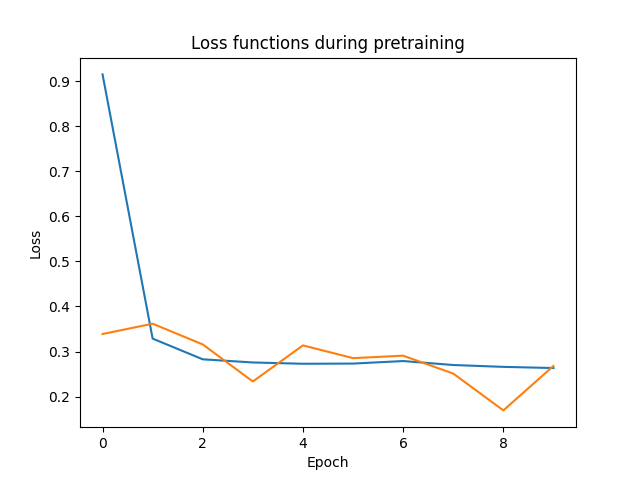
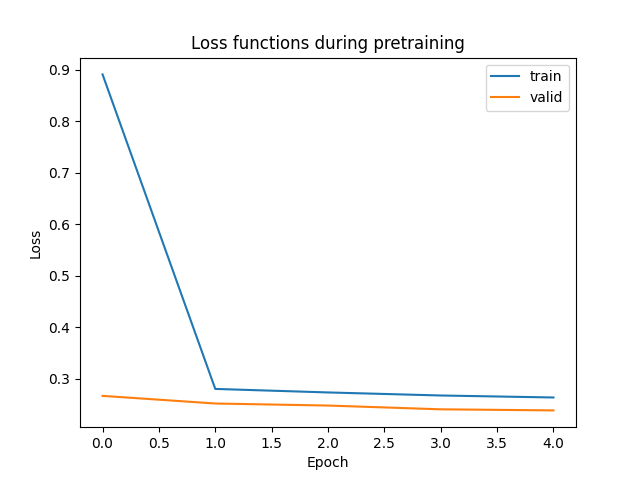
pretrain script working in parallel using torchrun

diff --git a/pretrain.py b/pretrain.py
@@ -1,0 +1,217 @@
+import json
+import tempfile
+import numpy as np
+import matplotlib.pyplot as plt
+import torch
+import time
+from transformers import RobertaConfig, RobertaForMaskedLM
+from torch.optim import AdamW
+from tqdm import tqdm 
+from transformers import get_linear_schedule_with_warmup
+import os
+import torch.distributed as dist
+import torch.multiprocessing as mp
+from torch.nn.parallel import DistributedDataParallel as DDP
+
+# eos_token_id is not defined, since we have no tokenizer. -1 means silence, so let use 2 as eos.
+# MIDI notes in this dataset are never below 21, so those are free
+eos_token_id = 2
+mask_token_id = 1
+pad_token_id = 0
+vocab_size = 128*2
+
+def get_data(rank):
+    data = json.load(open('data/jsb-chorales-16th.json'))
+
+    # n_notes (4) * longest sequence in the dataset
+    max_length_sequence = 4*max(max(len(seq) for seq in data_split) for data_split in [data['train'], data['valid'], data['test']])
+    if rank == 0:
+        print(max_length_sequence)
+
+    encodings_train = preprocess(data['train'], rank, max_length_sequence, pad_token_id, mask_token_id)
+    encodings_val = preprocess(data['valid'], rank, max_length_sequence, pad_token_id, mask_token_id)
+
+    dataset_train = Dataset(encodings_train)
+    loader_train = torch.utils.data.DataLoader(dataset_train, batch_size=8, shuffle=True)
+
+    dataset_val = Dataset(encodings_val)
+    loader_val = torch.utils.data.DataLoader(dataset_val, batch_size=1, shuffle=True)
+
+    return loader_train, loader_val, vocab_size, max_length_sequence
+    
+class Dataset(torch.utils.data.Dataset):
+    def __init__(self, encodings):
+        # store encodings internally
+        self.encodings = encodings
+
+    def __len__(self):
+        # return the number of samples
+        return self.encodings['input_ids'].shape[0]
+
+    def __getitem__(self, i):
+        # return dictionary of input_ids, attention_mask, and labels for index i
+        return {key: tensor[i] for key, tensor in self.encodings.items()}
+
+def preprocess(data_split, rank, max_length_sequence, pad_token_id, mask_token_id):
+        # We can visualize each timestep with four notes as a 'sentence', so adding an <eos> token at the end.
+        n_sequences = len(data_split)
+        n_notes = 4 # one exception, but we handle that later
+
+        # input_ids should be [n_sequences, n_timesteps * (n_notes + 1)]
+        # we append the eos tokens ad hoc
+        labels = np.ones([n_sequences, max_length_sequence], dtype=int) * pad_token_id
+        if rank == 0:
+            print(labels.shape)
+
+        start_time = time.time()
+        for i_seq in range(n_sequences):
+            n_timesteps = len(data_split[i_seq])
+            for i_time in range(n_timesteps):
+                n_notes = len(data_split[i_seq][i_time])
+                if n_notes != 4:
+                    break
+                for i_note in range(n_notes):
+                    # print(i_note)
+                    # if i_note == 3:
+                    #     # end of sentence reached, i.e.: after four notes in a timestep.
+                    #     labels = np.append(labels, eos_token_id)
+                    # else:
+                    labels[i_seq, i_time * n_notes + i_note] = int(data_split[i_seq][i_time][i_note])
+        end_time = time.time()
+        if rank == 0:
+            print(f"Time to process: {end_time - start_time:.2f} seconds")
+
+        mask = labels != 0
+        input_ids = np.copy(labels)
+
+        # Now, mask 15% of the labels randomly to use as input
+        random_mask = np.random.rand(*labels.shape) < 0.15
+        input_ids[random_mask] = mask_token_id
+
+        if rank == 0:
+            print("first 100 input_ids (with noise) of the first sequence:")
+            print(input_ids[0][0:100])
+
+        encodings = {'input_ids': input_ids, 'attention_mask': mask, 'labels': labels}
+        return encodings
+
+def pretrain():
+    # Setup for multi-GPU
+    dist.init_process_group("nccl")
+    rank = dist.get_rank()
+    print(f"Start running basic DDP example on rank {rank}.")
+
+    # create model and move it to GPU with id rank
+    device_id = rank % torch.cuda.device_count()
+
+    loader_train, loader_val, vocab_size, max_length_sequence = get_data(rank)
+
+    config = RobertaConfig(
+        vocab_size=vocab_size,
+        max_position_embeddings=max_length_sequence, # how far to do cross-attention (full length of sequence)
+        hidden_size=768,
+        num_attention_heads=12,
+        num_hidden_layers=6,
+        type_vocab_size=1,
+        eos_token_id=eos_token_id,
+    )
+
+    model = RobertaForMaskedLM(config)
+    model.to(device_id)
+    ddp_model = DDP(model, device_ids=[device_id])
+
+    # Train
+    epochs = 20
+
+    ddp_model.train()
+    # initialize optimizer (parameters from roberta paper)
+    optim = AdamW(ddp_model.parameters(), lr=6e-4, eps=1e-6, betas=[0.9, 0.98])
+
+    total_steps = len(loader_train) * epochs
+    warmup_steps = int(total_steps * 0.05)  # 10% of total steps for warmup
+
+    scheduler = get_linear_schedule_with_warmup(
+        optim, num_warmup_steps=warmup_steps, num_training_steps=total_steps
+    )
+
+    train_losses = []
+    val_losses = []
+
+    for epoch in range(epochs):
+        # checkpoint model
+        CHECKPOINT_PATH = tempfile.gettempdir() + "/model.checkpoint"
+        if rank == 0:
+            print("Checkpointing", CHECKPOINT_PATH)
+            torch.save(ddp_model.state_dict(), CHECKPOINT_PATH)
+
+        # Use a barrier() to make sure that process 1 loads the model after process 0 saves it.
+        dist.barrier()
+
+        # configure map_location properly
+        map_location = {'cuda:%d' % 0: 'cuda:%d' % rank}
+        ddp_model.load_state_dict(
+            torch.load(CHECKPOINT_PATH, map_location=map_location))
+    
+        loop = tqdm(loader_train, leave=True)
+        batch_losses = []
+        for batch in loop:
+            optim.zero_grad()
+            
+            input_ids = batch['input_ids'].to(device_id)
+            attention_mask = batch['attention_mask'].to(device_id)
+            labels = batch['labels'].to(device_id)
+
+            outputs = ddp_model(input_ids, attention_mask=attention_mask,
+                            labels=labels)
+            
+            loss = outputs.loss
+            batch_losses.append(loss.item())
+            loss.backward()
+            optim.step()
+            scheduler.step()
+
+            loop.set_description(f'Train Epoch {epoch+1}')
+            loop.set_postfix(loss=np.mean(batch_losses))
+        train_losses.append(np.mean(batch_losses))
+
+        val_loop = tqdm(loader_val, leave=True)
+        val_batch_losses = []
+        for val_batch in val_loop:
+            input_ids = val_batch['input_ids'].to(device_id)
+            attention_mask = val_batch['attention_mask'].to(device_id)
+            labels = val_batch['labels'].to(device_id)
+            
+            outputs = ddp_model(input_ids, attention_mask=attention_mask,
+                            labels=labels)
+            
+            val_loss = outputs.loss
+            val_batch_losses.append(val_loss.item())
+
+            val_loop.set_description(f'Valid Epoch {epoch+1}')
+            val_loop.set_postfix(loss=np.mean(val_batch_losses))
+        val_losses.append(np.mean(val_batch_losses))
+
+    # Finish up multi-GPU
+    dist.destroy_process_group()
+
+    plt.plot(train_losses, label="train")
+    plt.plot(val_losses, label="valid")
+    plt.legend()
+    plt.xlabel('Epoch')
+    plt.ylabel('Loss')
+    plt.title("Loss functions during pretraining")
+    plt.savefig('losses.png')
+
+    if rank == 0:
+        print("Deleting tmp checkpoint and saving model")
+        os.remove(CHECKPOINT_PATH)
+        torch.save(ddp_model.state_dict(), 'model/model.safetensors')
+
+
+if __name__=="__main__":
+    pretrain()
+
+    # Run this script with:
+    '''
+    torchrun --nnodes=1 --nproc_per_node=4 --rdzv_id=100 --rdzv_backend=c10d --rdzv_endpoint=$MASTER_ADDR:12485 main.py
+    '''
